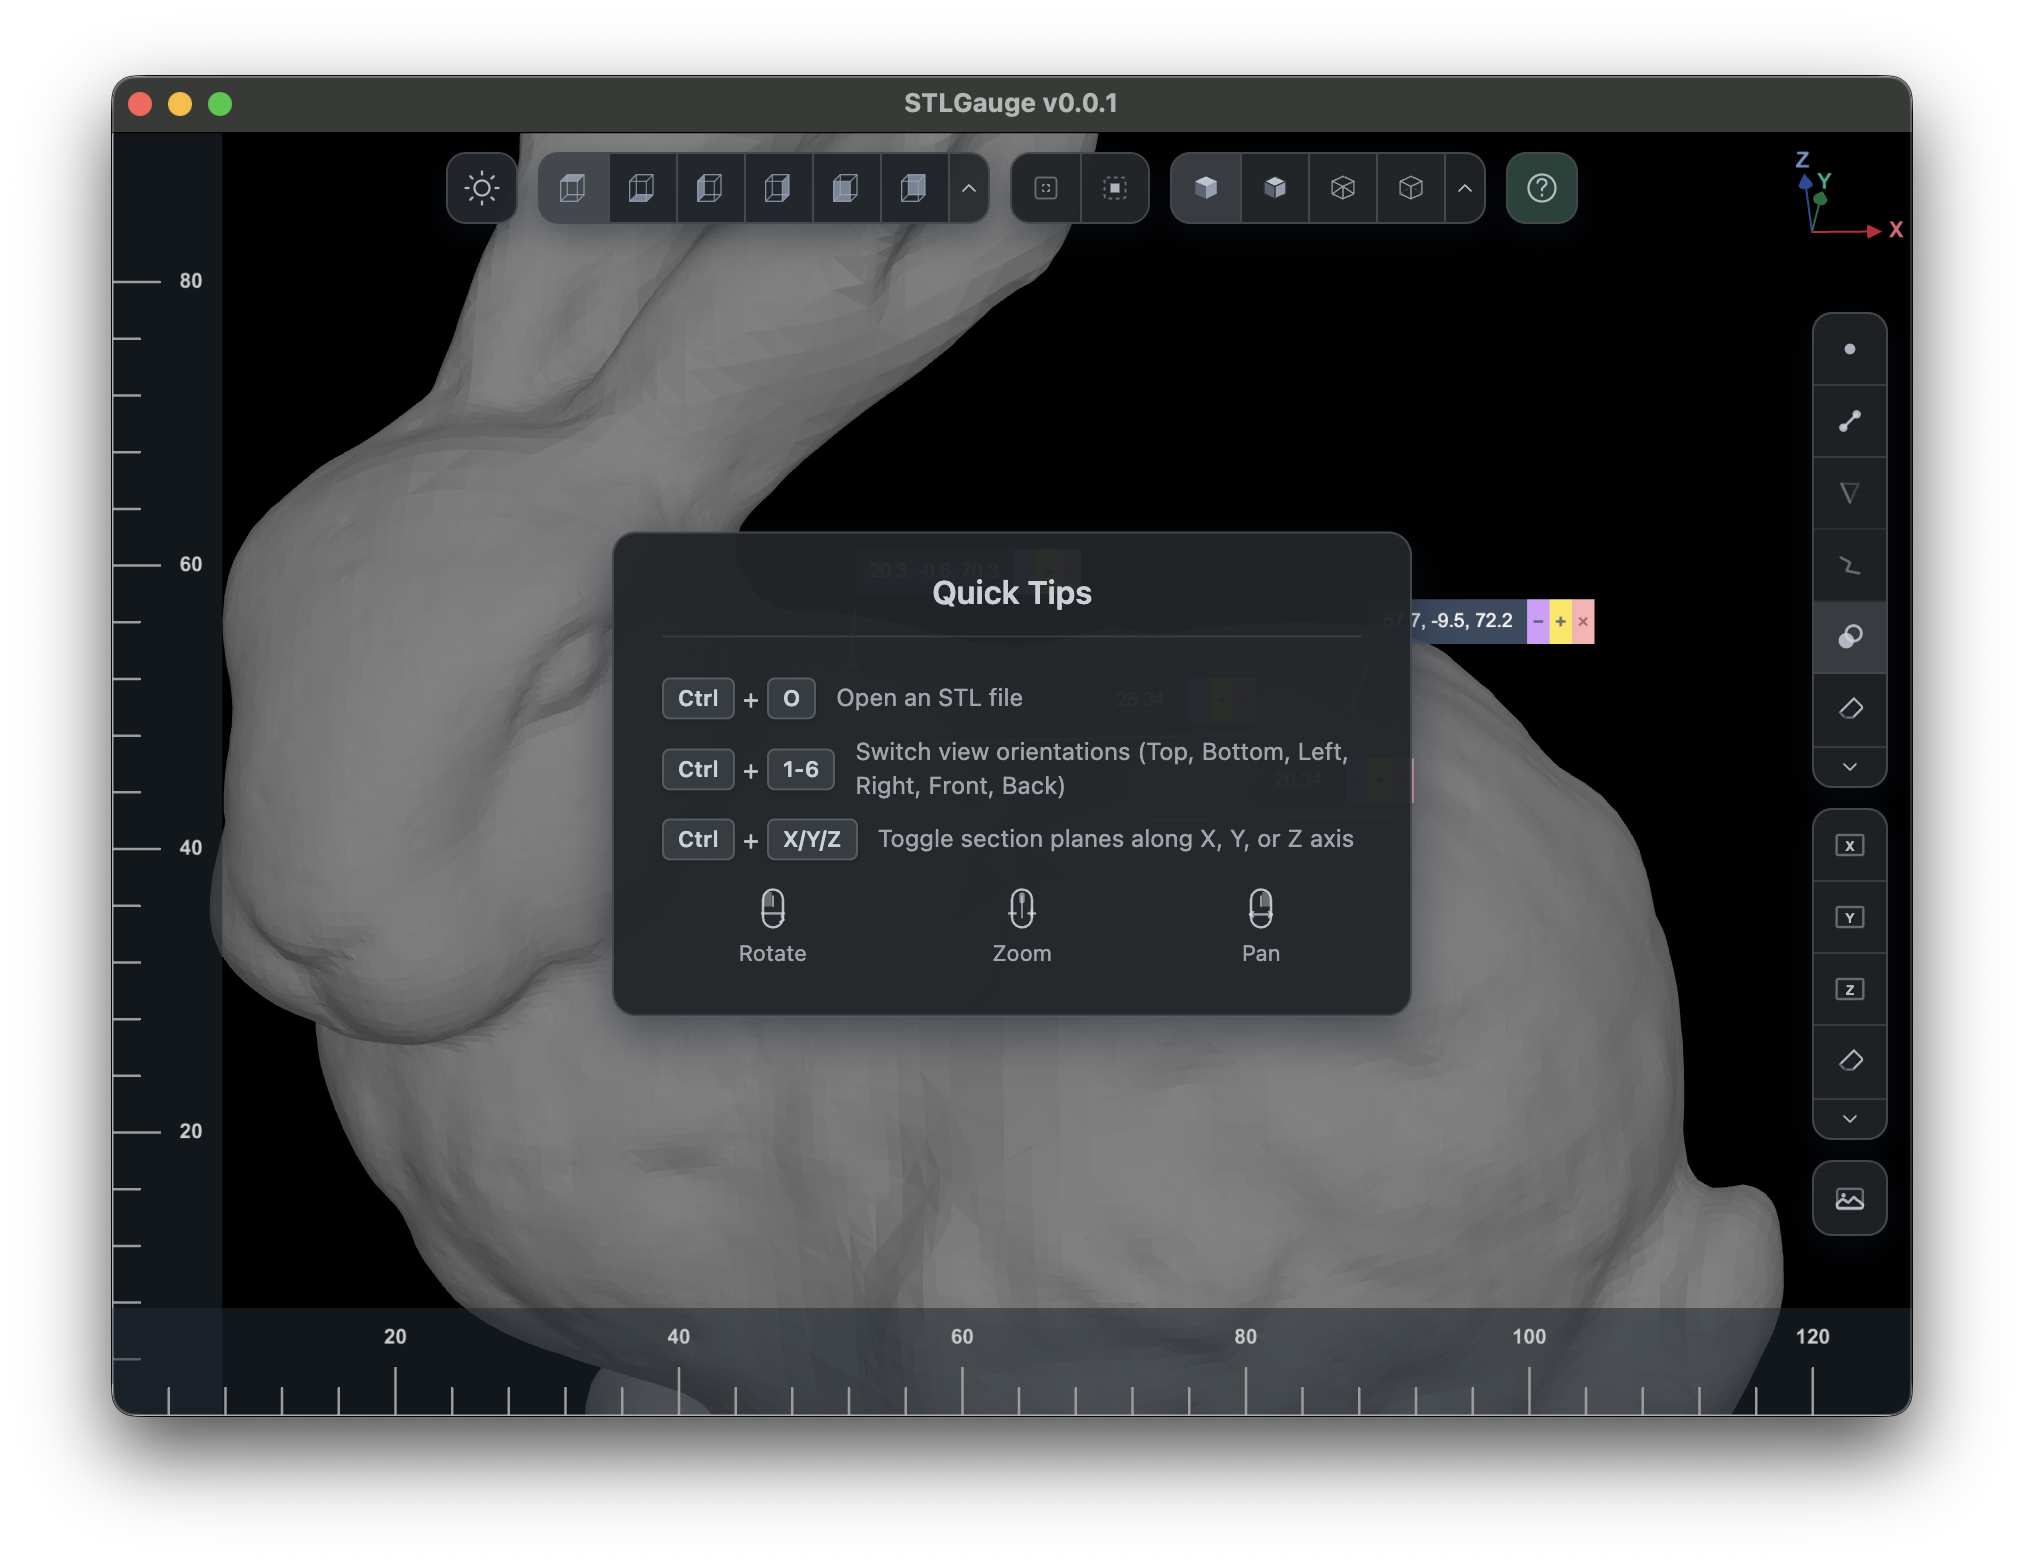
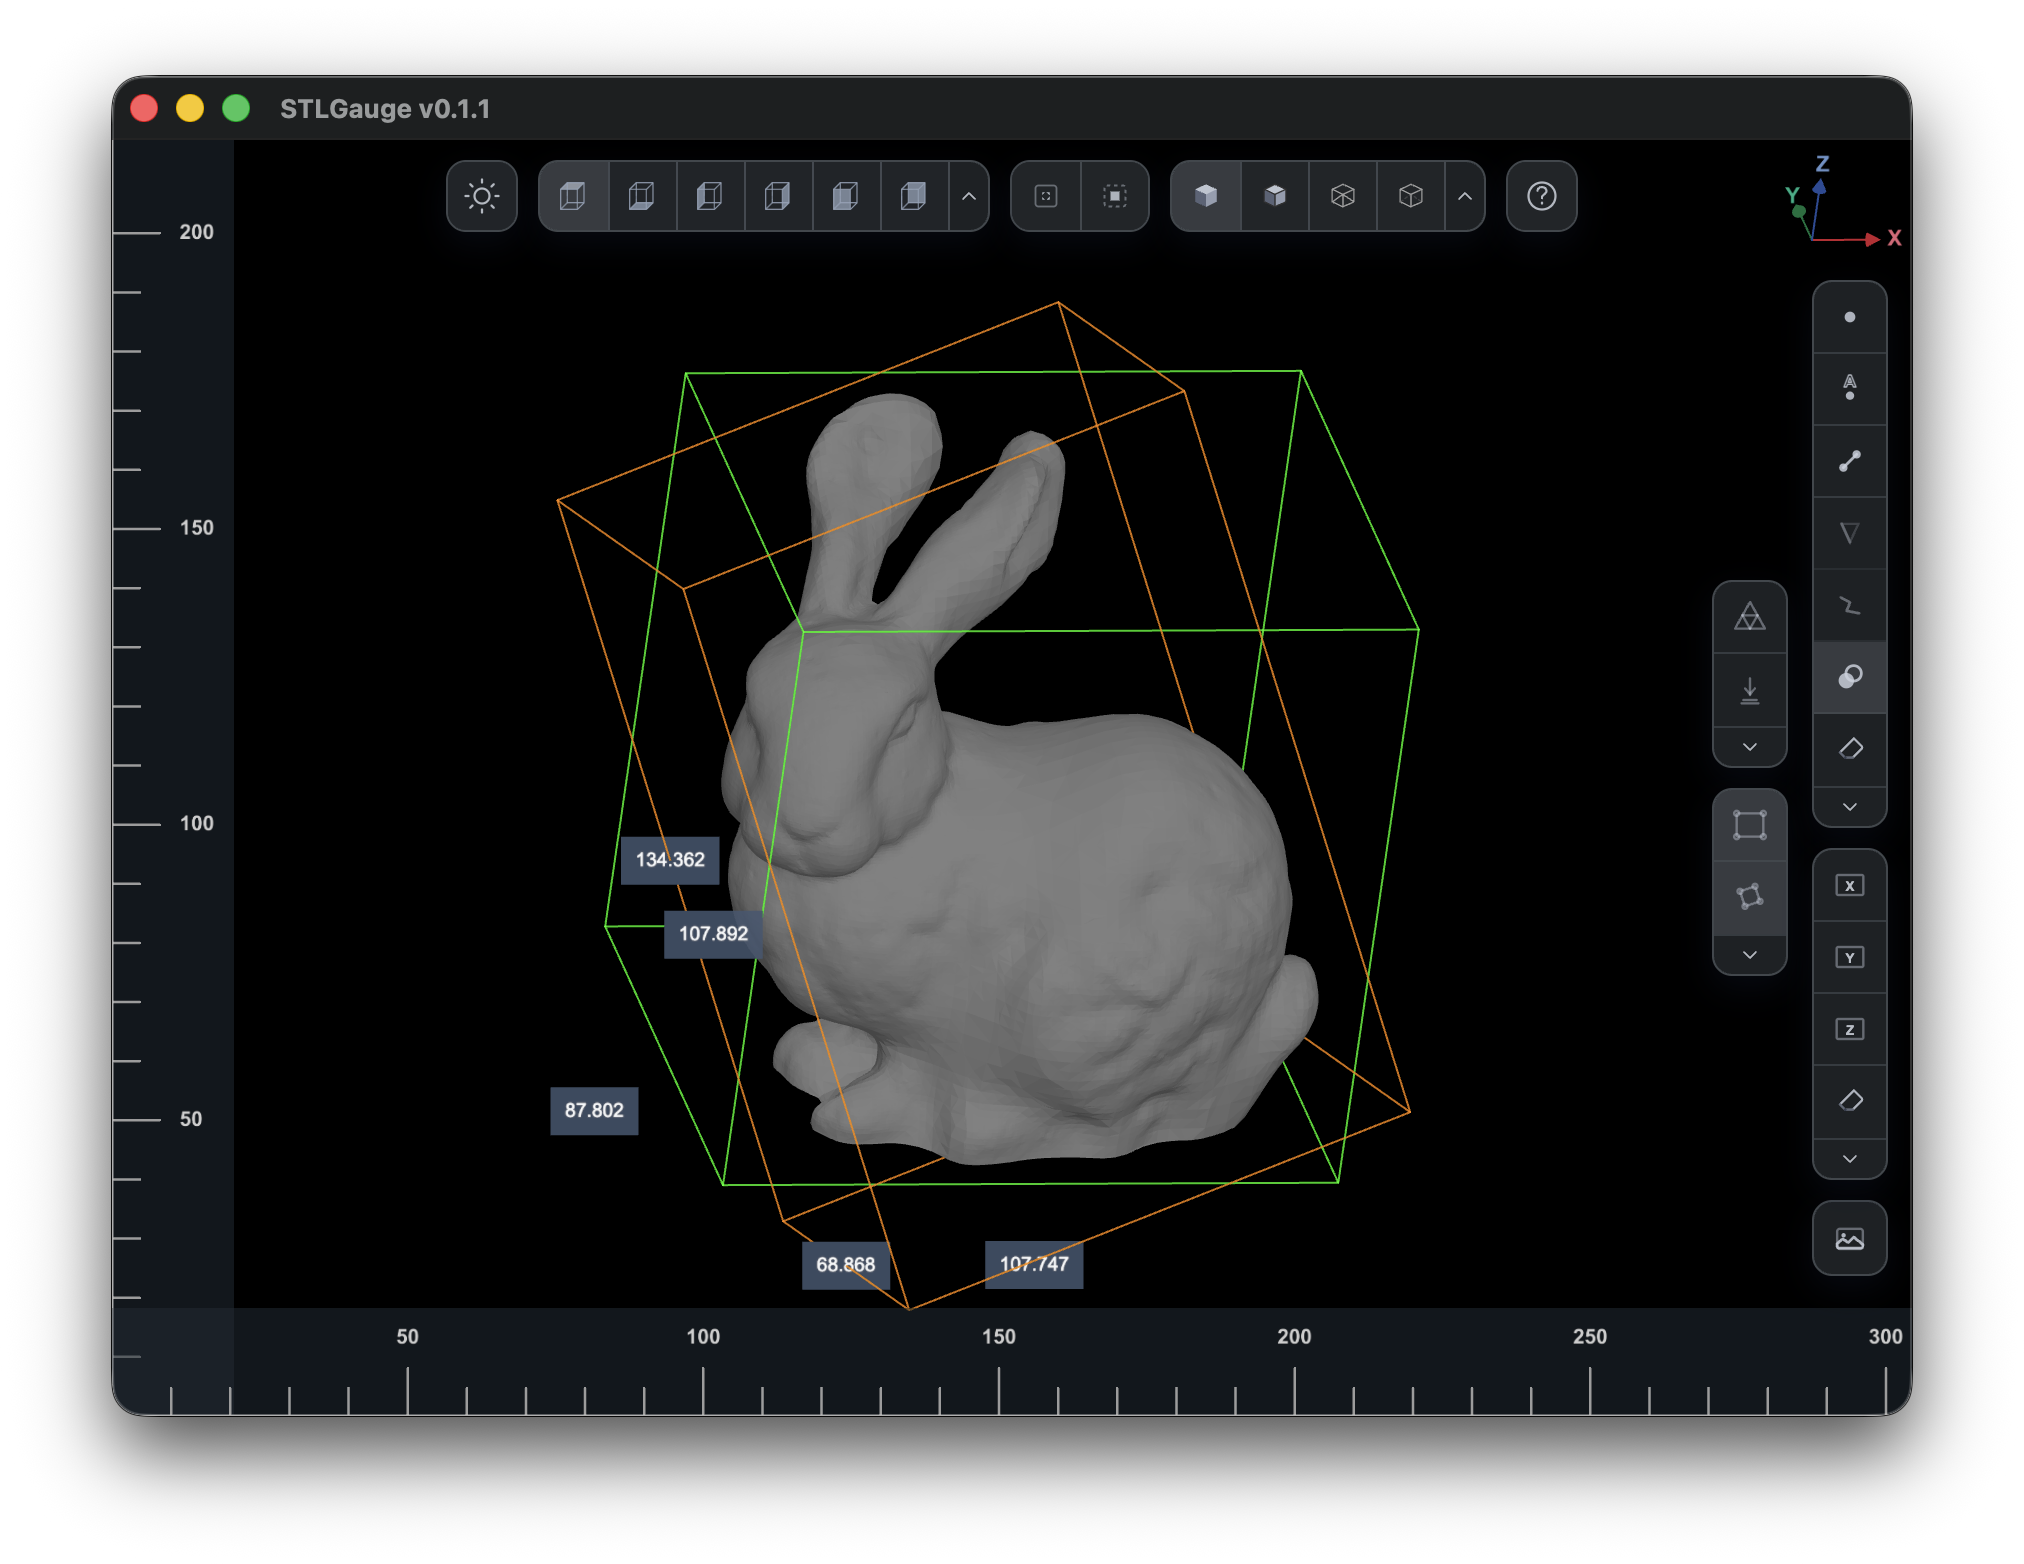
added new screenshots

diff --git a/index.html b/index.html
@@ -494,7 +494,7 @@
   <section class="comparison-wrapper" aria-label="Compare light and dark modes">
     <div class="comparison-header">
       <h2>Cross-platform, lightweight &amp; modern</h2>
-      <p>STLGauge is a desktop app built on Electron and runs on the platform of your choice. It has a modern user-interface with support for light and dark modes. Currently it supports point and point-to-point measurements with accurate snap to vertex support.</p>
+      <p>STLGauge is a desktop app built on Electron and runs on the platform of your choice. It has a modern user-interface with support for light and dark modes. Currently it supports point, point-to-point, edge and tape measurements with accurate snap to vertex support. It also supports sectioning along the standard axes and point measurement on the section.</p>
     </div>
     <div class="comparison-slider" data-slider>
       <figure class="slider-image-base">
@@ -519,6 +519,7 @@
         <button type="button" data-bs-target="#featureCarousel" data-bs-slide-to="1" aria-label="Slide 2"></button>
         <button type="button" data-bs-target="#featureCarousel" data-bs-slide-to="2" aria-label="Slide 3"></button>
         <button type="button" data-bs-target="#featureCarousel" data-bs-slide-to="3" aria-label="Slide 4"></button>
+        <button type="button" data-bs-target="#featureCarousel" data-bs-slide-to="4" aria-label="Slide 5"></button>
       </div>
       <div class="carousel-inner">
         <div class="carousel-item active">
@@ -532,6 +533,9 @@
         </div>
         <div class="carousel-item">
           <img src="img/carousel/four.png" alt="STLGauge feature showcase 4">
+        </div>
+        <div class="carousel-item">
+          <img src="img/carousel/five.png" alt="STLGauge feature showcase 5">
         </div>
       </div>
       <button class="carousel-control-prev" type="button" data-bs-target="#featureCarousel" data-bs-slide="prev">
